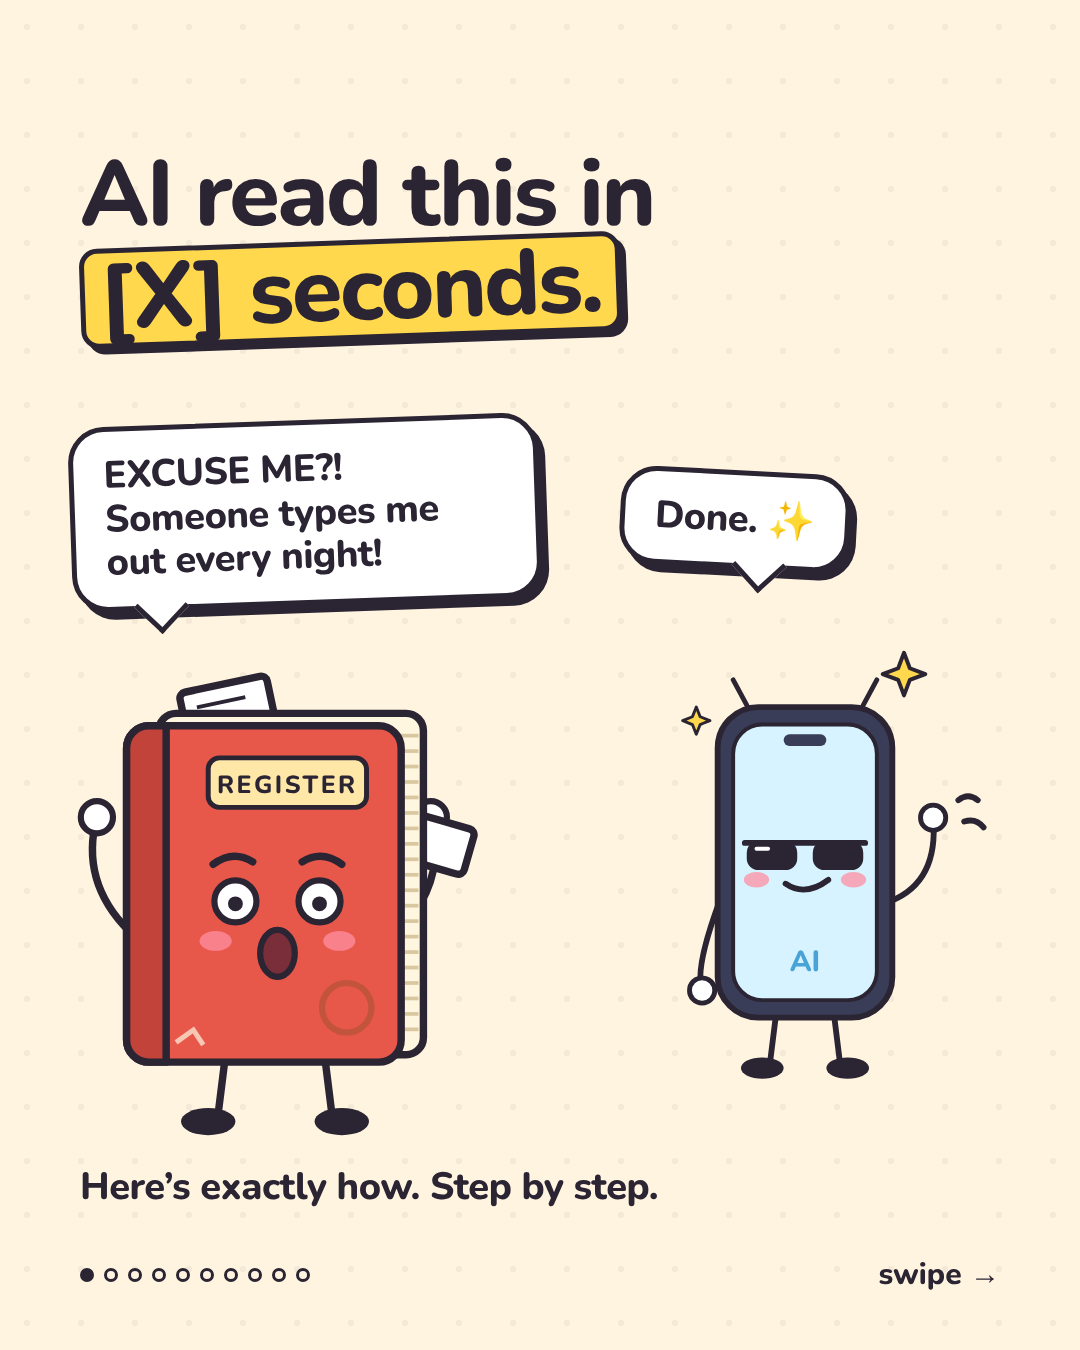
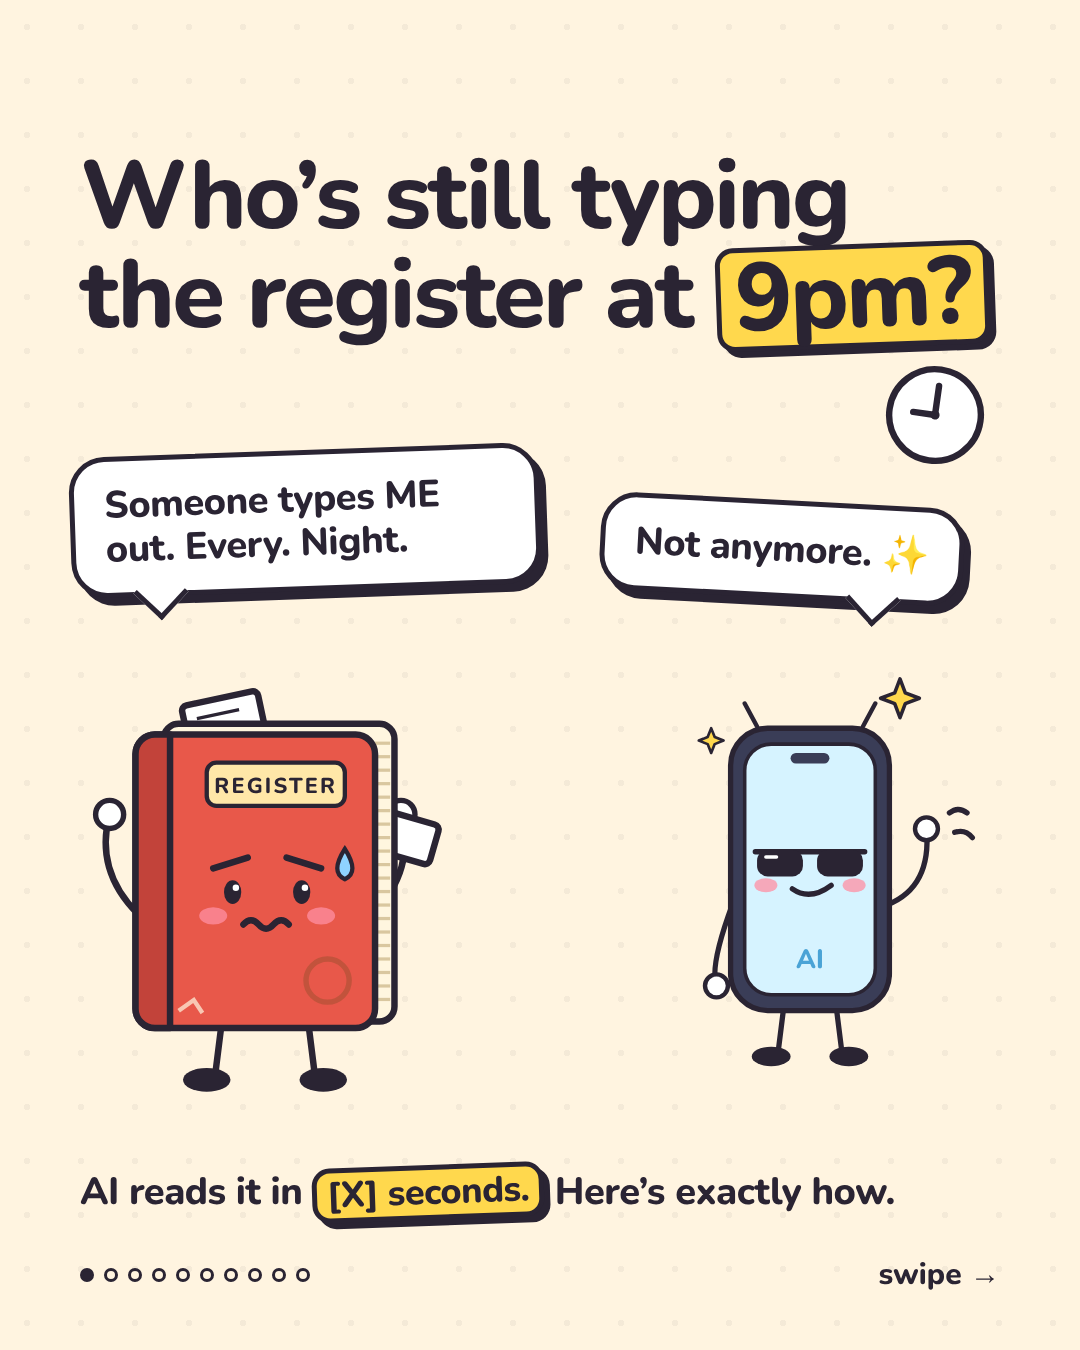
Use 9pm hook on carousel slide 1
Claude-Session: https://claude.ai/code/session_01VRmQ3k2zkbPmsXMeS6ZizU

Changed region(s): [[0.0611, 0.0933, 0.9472, 0.4667], [0.0611, 0.4978, 0.825, 0.9333], [0.55, 0.3422, 0.9167, 0.8089]]

diff --git a/carousel/index.html b/carousel/index.html
@@ -46,12 +46,13 @@ body { background: #444; -webkit-font-smoothing: antialiased; }
 
 <!-- 1 HOOK -->
 <section class="slide" style="background:var(--cream)">
-  <div class="ttl">AI read this in<br><span class="mark">[X] seconds.</span></div>
-  <div class="ch" data-c="reg:shocked:up" style="left:40px;top:560px;width:470px"></div>
-  <div class="ch" data-c="phone:cool:wave" style="left:640px;top:610px;width:330px"></div>
-  <div class="bub bl" style="left:70px;top:420px;width:470px;transform:rotate(-2deg)">EXCUSE ME?! Someone types me out every night!</div>
-  <div class="bub br" style="left:620px;top:470px;transform:rotate(3deg)">Done. ✨</div>
-  <div class="sub" style="position:absolute;left:80px;bottom:140px;z-index:3">Here’s exactly how. Step by step.</div>
+  <div class="ttl" style="font-size:96px">Who’s still typing the register at <span class="mark">9pm?</span></div>
+  <svg viewBox="0 0 120 120" style="position:absolute;right:90px;top:360px;width:110px;z-index:3;transform:rotate(8deg)"><circle cx="60" cy="60" r="50" fill="#fff" stroke="#2A2433" stroke-width="7"/><path d="M60 60 V28 M60 60 L36 60" stroke="#2A2433" stroke-width="7" stroke-linecap="round"/><circle cx="60" cy="60" r="5" fill="#2A2433"/></svg>
+  <div class="ch" data-c="reg:sweaty:up" style="left:60px;top:590px;width:410px"></div>
+  <div class="ch" data-c="phone:cool:wave" style="left:660px;top:640px;width:300px"></div>
+  <div class="bub bl" style="left:70px;top:450px;width:470px;transform:rotate(-2deg)">Someone types ME out. Every. Night.</div>
+  <div class="bub br" style="left:600px;top:500px;transform:rotate(3deg)">Not anymore. ✨</div>
+  <div class="sub" style="position:absolute;left:80px;right:80px;bottom:130px;z-index:3">AI reads it in <span class="mark" style="font-size:36px;padding:0 10px">[X] seconds.</span> Here’s exactly how.</div>
 </section>
 
 <!-- 2 MEET THE TEAM -->
